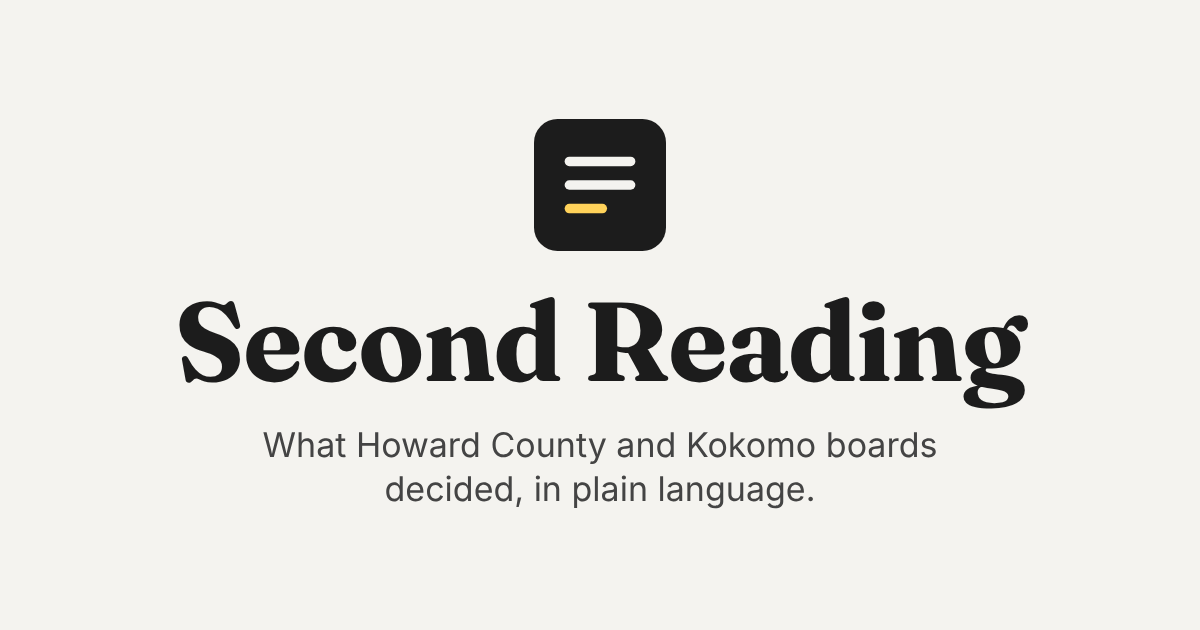
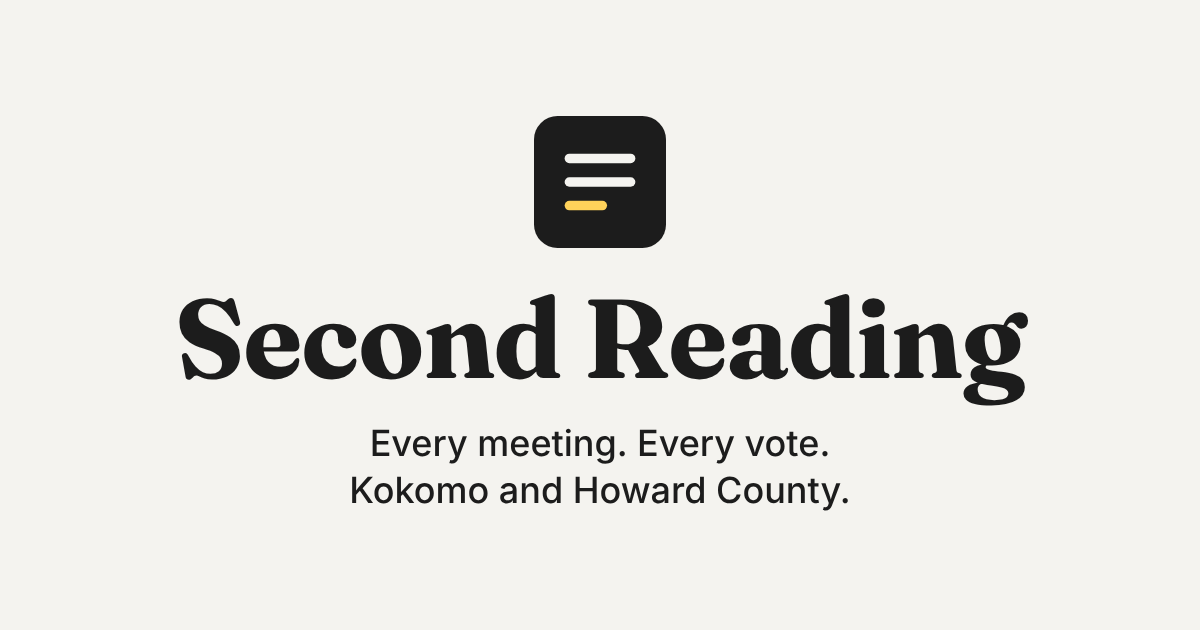
Add files via upload

diff --git a/public/index.html b/public/index.html
@@ -4,12 +4,12 @@
 <meta charset="utf-8">
 <meta name="viewport" content="width=device-width, initial-scale=1">
 <meta name="robots" content="noindex">
-<title>Second Reading · Howard County and Kokomo</title>
-<meta name="description" content="What Howard County and Kokomo boards decided, in plain language: upcoming agendas, votes, budgets and how to weigh in.">
+<title>Second Reading · Every meeting. Every vote. Kokomo and Howard County.</title>
+<meta name="description" content="Every meeting. Every vote. Kokomo and Howard County. What local boards decided, in plain language: upcoming agendas, votes, budgets and how to weigh in.">
 <meta property="og:type" content="website">
 <meta property="og:site_name" content="Second Reading">
-<meta property="og:title" content="Second Reading · Howard County and Kokomo">
-<meta property="og:description" content="What Howard County and Kokomo boards decided, in plain language: upcoming agendas, votes, budgets and how to weigh in.">
+<meta property="og:title" content="Second Reading">
+<meta property="og:description" content="Every meeting. Every vote. Kokomo and Howard County. What local boards decided, in plain language.">
 <meta property="og:url" content="https://www.secondreading.org/">
 <link rel="canonical" href="https://www.secondreading.org/">
 <meta property="og:image" content="https://www.secondreading.org/og-image.png">
@@ -29,7 +29,7 @@
 <body>
 <header class="site">
   <div class="wrap bar">
-    <a class="brand" href="#/"><img src="/icon.svg" alt="" width="30" height="30"><b>Second Reading</b><span>Howard County and Kokomo</span></a>
+    <a class="brand" href="#/"><img src="/icon.svg" alt="" width="30" height="30"><b>Second Reading</b><span>Every meeting. Every vote.</span></a>
     <button class="menu" aria-expanded="false" aria-controls="nav">Menu</button>
     <nav id="nav">
       <a href="#/" data-nav="home">This week</a>

diff --git a/public/site.js b/public/site.js
@@ -28,7 +28,7 @@ const daysUntil = (d) => Math.round((new Date(d + "T12:00:00") - new Date(new Da
 const relDay = (d) => { const n = daysUntil(d); return n === 0 ? "Today" : n === 1 ? "Tomorrow" : n > 1 && n < 7 ? `This ${dt(d, { weekday: "long" })}` : ""; };
 const ts = (s) => { s = Math.max(0, s | 0); const h = Math.floor(s / 3600), m = Math.floor((s % 3600) / 60), x = s % 60; return (h ? `${h}:${String(m).padStart(2, "0")}` : `${m}`) + `:${String(x).padStart(2, "0")}`; };
 const yt = (id, s) => `https://www.youtube.com/watch?v=${encodeURIComponent(id)}${s != null ? `&t=${s | 0}s` : ""}`;
-const title = (t) => (document.title = t ? `${t} · Second Reading` : "Second Reading · Howard County and Kokomo");
+const title = (t) => (document.title = t ? `${t} · Second Reading` : "Second Reading · Every meeting. Every vote. Kokomo and Howard County.");
 const list = (a) => (a.length <= 2 ? a.join(" and ") : `${a.slice(0, -1).join(", ")} and ${a.at(-1)}`);
 
 const LABEL = {

diff --git a/public/ask.html b/public/ask.html
@@ -18,7 +18,7 @@
 <body>
 <header class="site">
   <div class="wrap bar">
-    <a class="brand" href="/ask.html"><img src="/icon.svg" alt="" width="30" height="30"><b>Ask</b><span>Second Reading</span></a>
+    <a class="brand" href="/ask.html"><img src="/icon.svg" alt="" width="30" height="30"><b>Ask</b><span>Second Reading · Every meeting. Every vote.</span></a>
     <nav id="nav" class="asknav"><span id="who" class="muted"></span><a href="/" target="_blank" rel="noopener">Public site</a><button id="signout" class="linkbtn" hidden>Sign out</button></nav>
   </div>
 </header>
